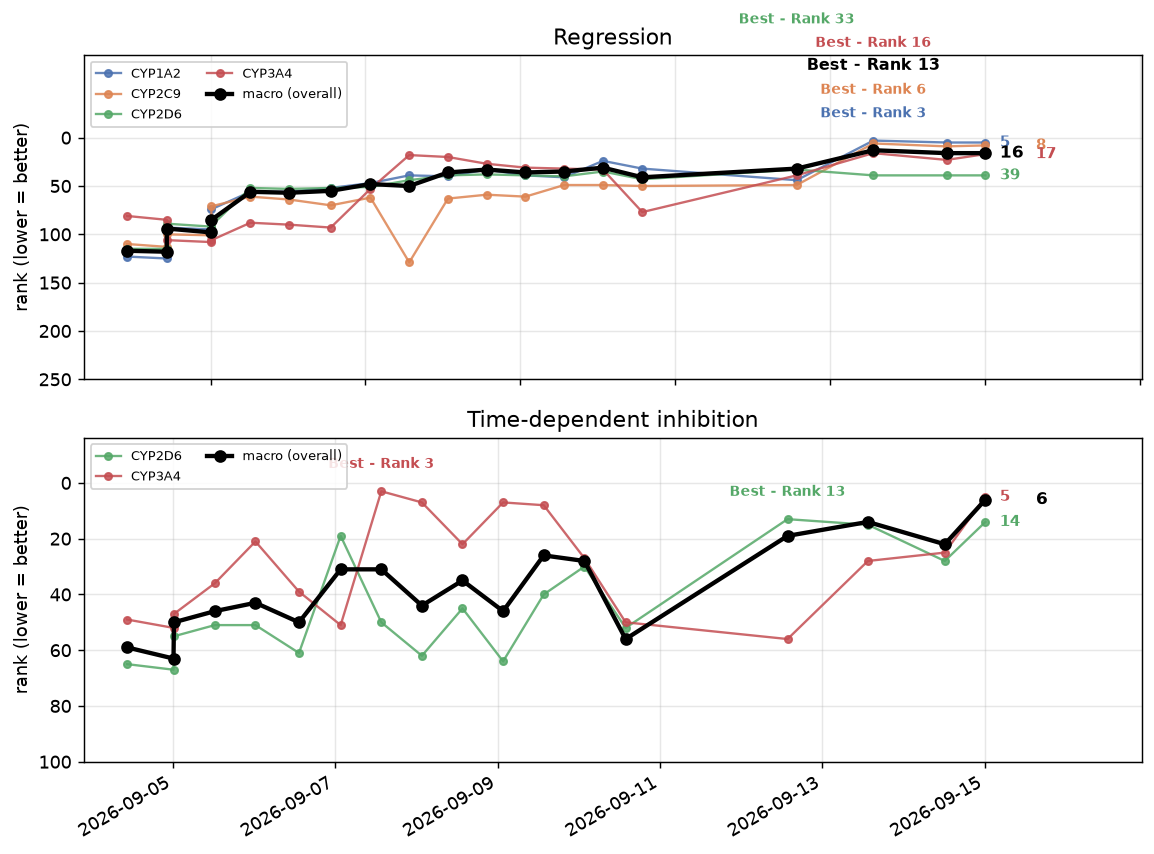
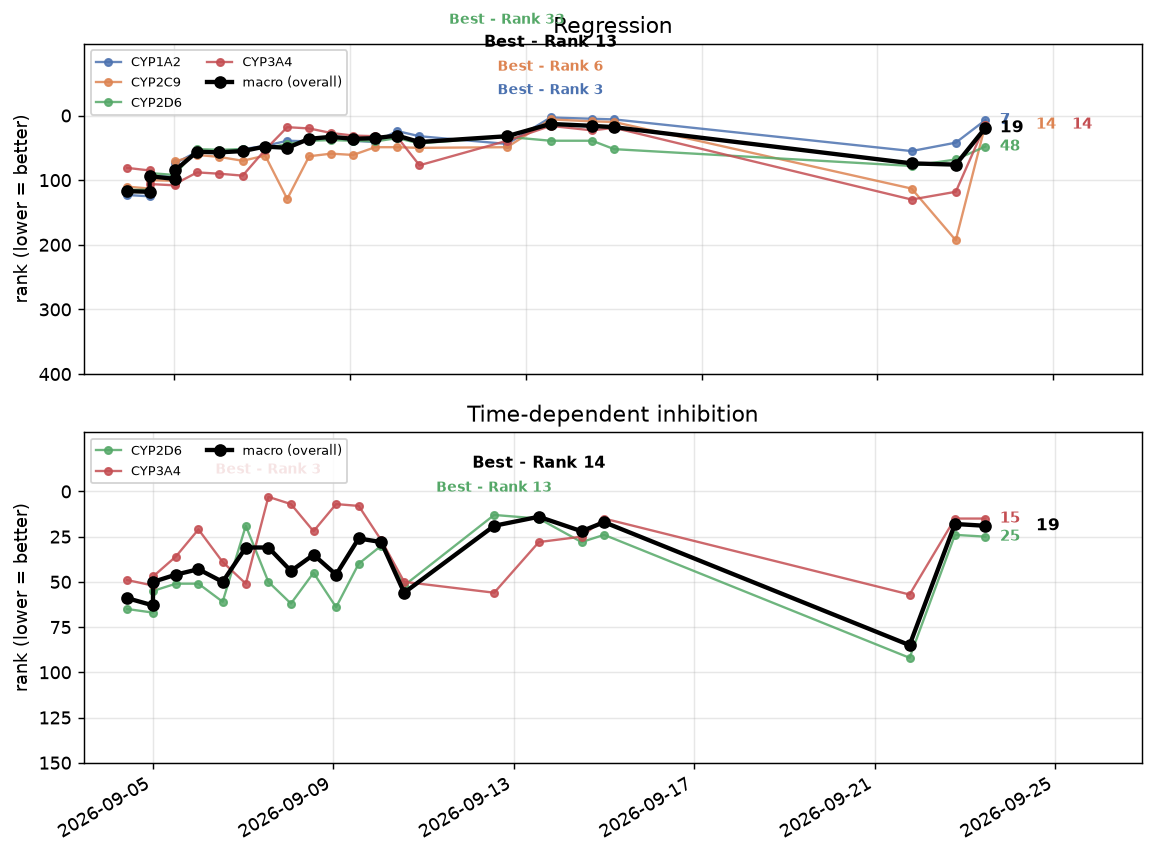
CYP inhibition challenge -- method and results

diff --git a/README.md b/README.md
@@ -30,15 +30,15 @@ Every reported number is out-of-fold. Nothing is scored on data the base learner
 
 <table>
 <thead>
-<tr><th rowspan="2">Endpoint</th><th colspan="4">Metrics &mdash; held-out CV</th><th colspan="3">Ranking &mdash; of 155 entries</th></tr>
+<tr><th rowspan="2">Endpoint</th><th colspan="4">Metrics &mdash; held-out CV</th><th colspan="3">Ranking &mdash; of 238 entries</th></tr>
 <tr><th>MAE</th><th>RMSE</th><th>R²</th><th>Spearman ρ</th><th>best</th><th>latest</th><th>percentile</th></tr>
 </thead>
 <tbody>
-<tr><td>CYP1A2</td><td align="right">0.429</td><td align="right">0.589</td><td align="right">0.671</td><td align="right">0.777</td><td align="right">3</td><td align="right">5</td><td align="right">top 3%</td></tr>
-<tr><td>CYP2C9</td><td align="right">0.327</td><td align="right">0.443</td><td align="right">0.667</td><td align="right">0.834</td><td align="right">6</td><td align="right">8</td><td align="right">top 5%</td></tr>
-<tr><td>CYP2D6</td><td align="right">0.432</td><td align="right">0.658</td><td align="right">0.481</td><td align="right">0.792</td><td align="right">33</td><td align="right">39</td><td align="right">top 25%</td></tr>
-<tr><td>CYP3A4</td><td align="right">0.349</td><td align="right">0.469</td><td align="right">0.813</td><td align="right">0.910</td><td align="right">16</td><td align="right">17</td><td align="right">top 11%</td></tr>
-<tr><td><strong>macro average</strong></td><td align="right"><strong>0.384</strong></td><td align="right"><strong>0.540</strong></td><td align="right"><strong>0.658</strong></td><td align="right"><strong>0.828</strong></td><td align="right"><strong>13</strong></td><td align="right"><strong>16</strong></td><td align="right"><strong>top 10%</strong></td></tr>
+<tr><td>CYP1A2</td><td align="right">0.429</td><td align="right">0.589</td><td align="right">0.671</td><td align="right">0.777</td><td align="right">3</td><td align="right">7</td><td align="right">top 3%</td></tr>
+<tr><td>CYP2C9</td><td align="right">0.327</td><td align="right">0.443</td><td align="right">0.667</td><td align="right">0.834</td><td align="right">6</td><td align="right">14</td><td align="right">top 6%</td></tr>
+<tr><td>CYP2D6</td><td align="right">0.432</td><td align="right">0.658</td><td align="right">0.481</td><td align="right">0.792</td><td align="right">33</td><td align="right">48</td><td align="right">top 20%</td></tr>
+<tr><td>CYP3A4</td><td align="right">0.349</td><td align="right">0.469</td><td align="right">0.813</td><td align="right">0.910</td><td align="right">14</td><td align="right">14</td><td align="right">top 6%</td></tr>
+<tr><td><strong>macro average</strong></td><td align="right"><strong>0.384</strong></td><td align="right"><strong>0.540</strong></td><td align="right"><strong>0.658</strong></td><td align="right"><strong>0.828</strong></td><td align="right"><strong>13</strong></td><td align="right"><strong>19</strong></td><td align="right"><strong>top 8%</strong></td></tr>
 </tbody>
 </table>
 
@@ -46,13 +46,13 @@ Every reported number is out-of-fold. Nothing is scored on data the base learner
 
 <table>
 <thead>
-<tr><th rowspan="2">Endpoint</th><th colspan="2">Metrics &mdash; held-out CV</th><th colspan="3">Ranking &mdash; of 85 entries</th></tr>
+<tr><th rowspan="2">Endpoint</th><th colspan="2">Metrics &mdash; held-out CV</th><th colspan="3">Ranking &mdash; of 125 entries</th></tr>
 <tr><th>MCC</th><th>AUC</th><th>best</th><th>latest</th><th>percentile</th></tr>
 </thead>
 <tbody>
-<tr><td>CYP2D6</td><td align="right">0.195</td><td align="right">0.622</td><td align="right">13</td><td align="right">14</td><td align="right">top 16%</td></tr>
-<tr><td>CYP3A4</td><td align="right">0.496</td><td align="right">0.835</td><td align="right">3</td><td align="right">5</td><td align="right">top 6%</td></tr>
-<tr><td><strong>macro average</strong></td><td align="right"><strong>0.346</strong></td><td align="right"><strong>&ndash;</strong></td><td align="right"><strong>6</strong></td><td align="right"><strong>6</strong></td><td align="right"><strong>top 7%</strong></td></tr>
+<tr><td>CYP2D6</td><td align="right">0.268</td><td align="right">0.711</td><td align="right">13</td><td align="right">25</td><td align="right">top 20%</td></tr>
+<tr><td>CYP3A4</td><td align="right">0.437</td><td align="right">0.805</td><td align="right">3</td><td align="right">15</td><td align="right">top 12%</td></tr>
+<tr><td><strong>macro average</strong></td><td align="right"><strong>0.353</strong></td><td align="right"><strong>0.758</strong></td><td align="right"><strong>14</strong></td><td align="right"><strong>19</strong></td><td align="right"><strong>top 15%</strong></td></tr>
 </tbody>
 </table>
 
@@ -76,12 +76,19 @@ other entry on the board.
 ## Chemical neighbourhood of the held-out set
 
 The held-out compounds occupy a particular corner of chemical space, and the labelled training
-data does not densely cover it. To close that gap, **over 50,000 near-neighbours of the held-out
+data does not densely cover it. To close that gap, **88,683 near-neighbours of the held-out
 structures** were retrieved from a large public catalogue — filtered at retrieval time to the
 held-out set's own physicochemical envelope and screened for structural liabilities, then kept
 only above a similarity floor chosen so that every admitted compound is closer to the scored
-molecules than the training set's own average nearest neighbour. These neighbors enter the training pool
-with only their calculated physical properties and no assay endpoints.
+molecules than the training set's own average nearest neighbour. The **4,999 closest** are
+admitted to the training pool, entering with only their calculated physical properties and no
+assay endpoints.
+
+![chemical space](chemical_space_tsne.png)
+
+*Chemical space of the corpus, t-SNE of AtomPair fingerprints, coloured by data tier. The
+held-out compounds are black and the admitted neighbours are their own tier, so how closely the
+retrieved chemistry tracks the scored compounds can be read off the map directly.*
 
 ## Structural alerts, vetoed by the blind held-out set
 
@@ -128,6 +135,30 @@ every row, so at full weight it supplies the large majority of the pretraining g
 trunk spends its capacity reproducing a function it can already derive. Those heads are
 down-weighted as a per-task weight — a constant per-row weight cancels out of a weighted mean and
 changes nothing.
+
+## Tabular foundation models
+
+The frozen-embedding learners are fitted with **Mitra**, AutoGluon's tabular foundation model,
+released under Apache 2.0. Two comparable models were evaluated on identical embeddings, TabICL
+and TabPFN. TabPFN was omitted.
+
+```python
+from autogluon.tabular.configs.hyperparameter_configs import get_hyperparameter_config
+
+ag_hp = get_hyperparameter_config("zeroshot_2025_tabfm")
+for m in ["TABPFNV2"]:
+    ag_hp.pop(m, None)
+```
+
+Across seven matched embedding sources Mitra beat TabPFN on macro held-out R² in six, and the
+two models' residuals correlated 0.94–0.98 — they were making very nearly the same mistakes, so
+leaving one out cost almost no ensemble diversity.
+
+> Zhang, X., Maddix, D. C., Yin, J., Erickson, N., Ansari, A. F., Han, B., Zhang, S., Akoglu, L.,
+> Faloutsos, C., Mahoney, M. W., Hu, C., Rangwala, H., Karypis, G., & Wang, B. (2025).
+> *Mitra: Mixed Synthetic Priors for Enhancing Tabular Foundation Models.* NeurIPS 2025.
+> [arXiv:2510.21204](https://arxiv.org/abs/2510.21204) ·
+> [AutoGluon](https://github.com/autogluon/autogluon), Apache 2.0
 
 ## What moved the needle
 
